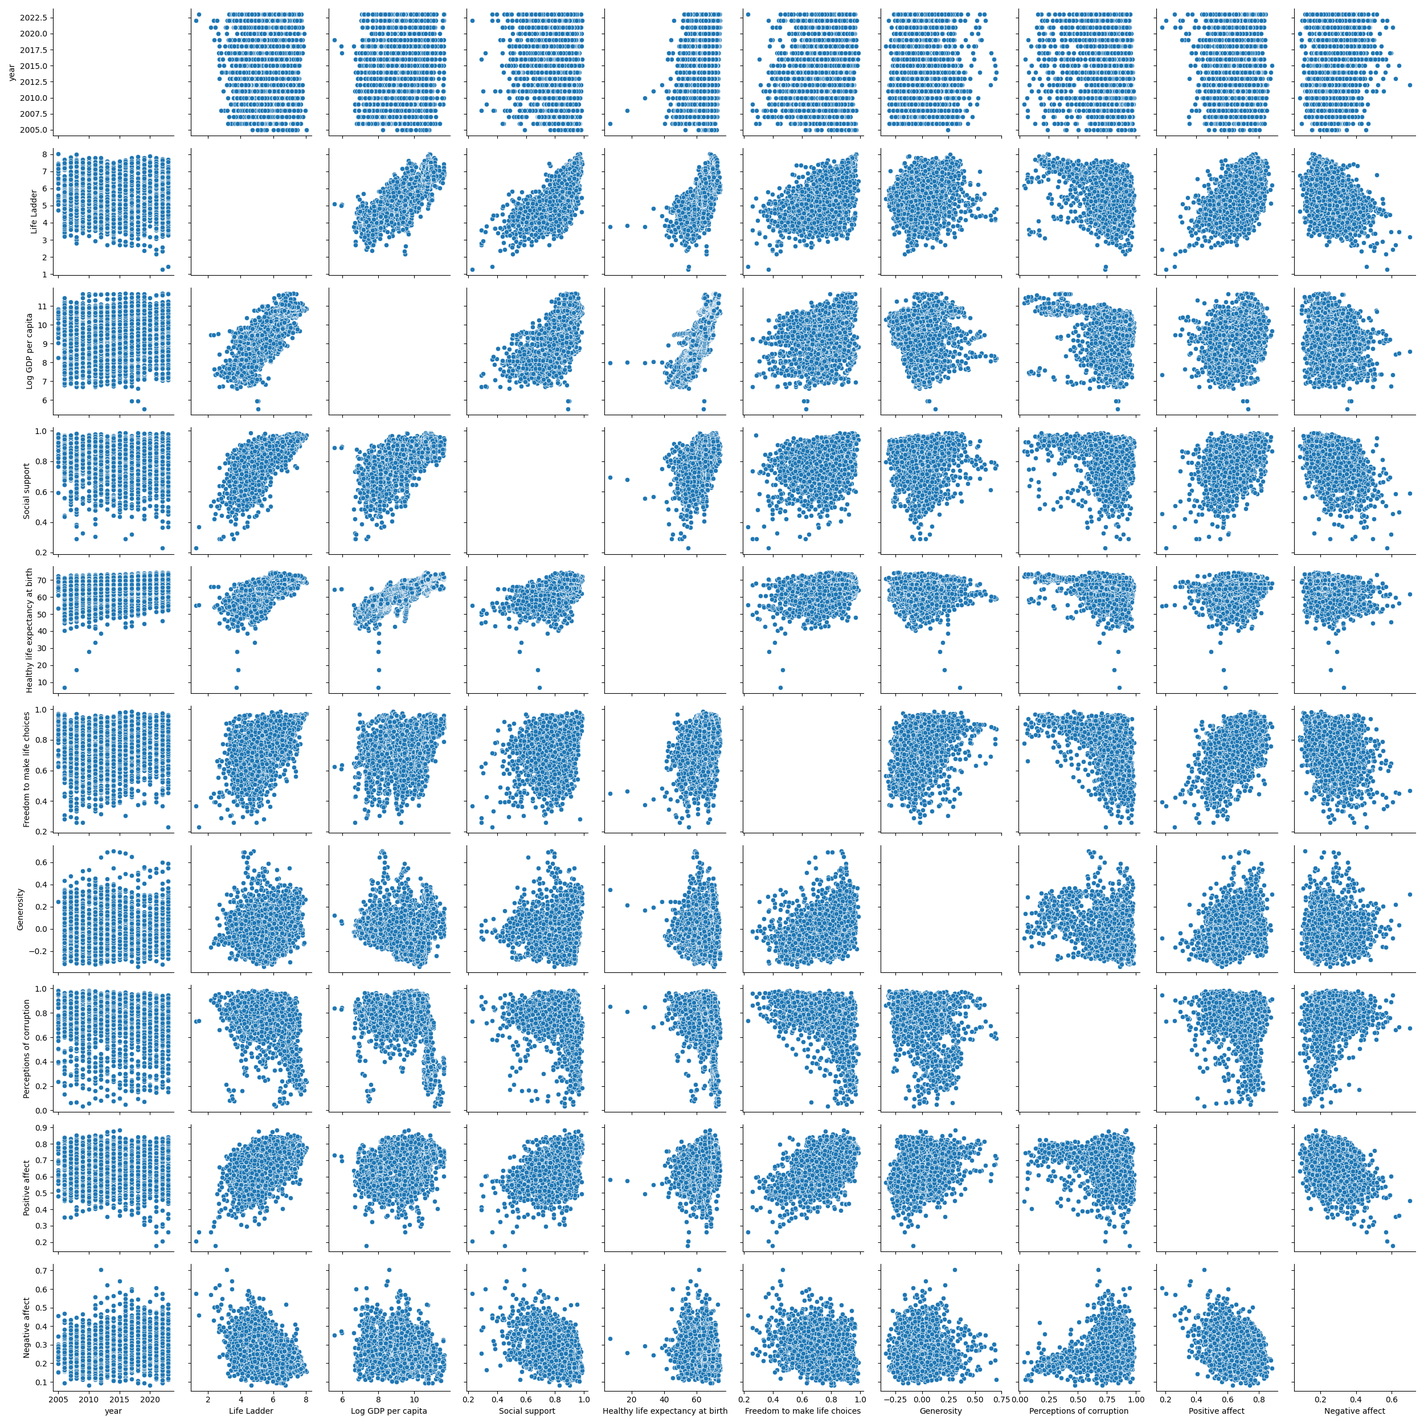
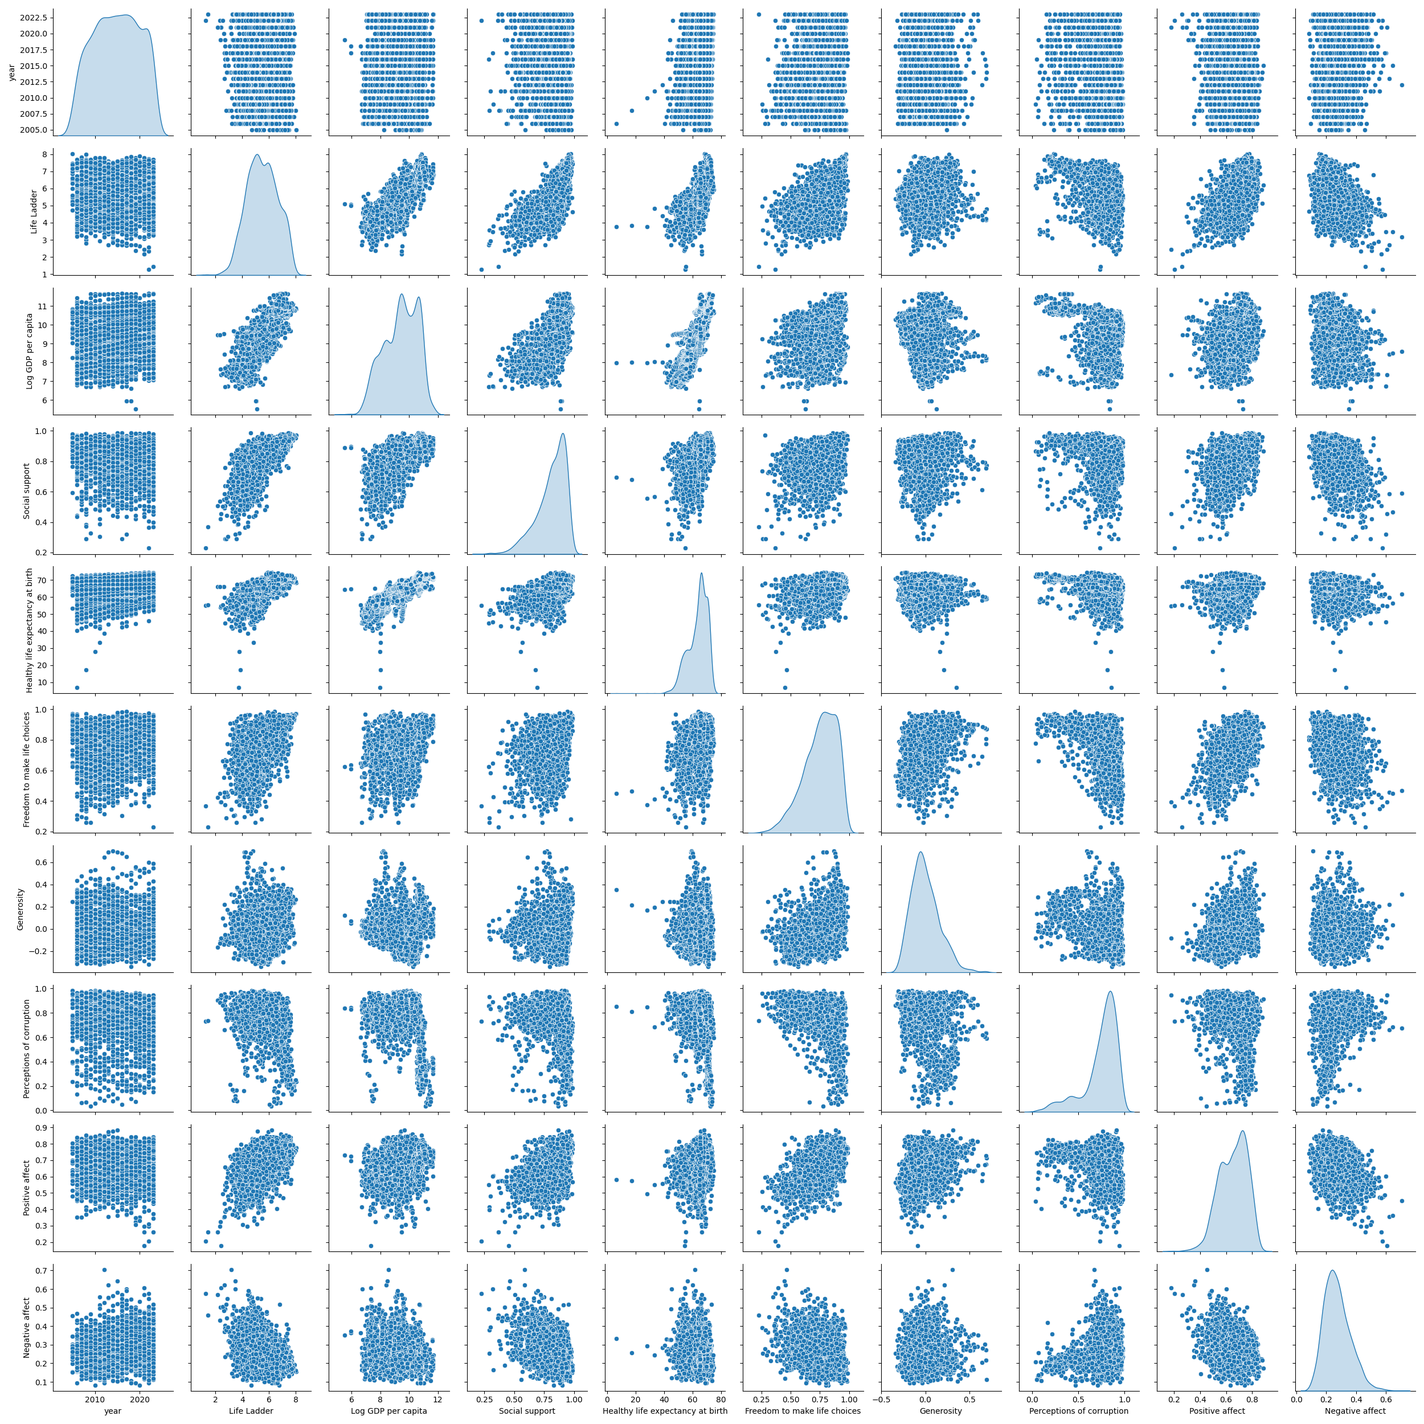
commit all

diff --git a/autolysis.py b/autolysis.py
@@ -8,6 +8,7 @@
 #   "seaborn",
 #   "os",
 #   "sys",
+#   "warnings",
 #   "datetime",
 #   "requests",
 #   "json",
@@ -21,6 +22,7 @@ import numpy as np
 import matplotlib.pyplot as plt
 import seaborn as sns
 import sys
+import warnings
 from datetime import datetime
 import requests
 import json
@@ -121,8 +123,9 @@ def plot_visualizations(data):
         images.append(hist)
 
     print("Please wait, pairplot is generating...")
+    warnings.filterwarnings("ignore", category=UserWarning)
     plt.figure(figsize=(10, 8))
-    sns.pairplot(data,diag_kind='scatter', palette='virdis')
+    sns.pairplot(data,diag_kind='kde', palette='virdis')
     plt.tight_layout()
     pairplot = "pairplot.png"
     plt.savefig(pairplot)
@@ -132,43 +135,37 @@ def plot_visualizations(data):
 
     return images
 
-def write_report(stats,images):
+def write_report(stats):
 
     """Write the analysis results to README.md."""
 
-    with open('README.md', 'w') as f:
-        f.write("# Data Analysis Report\n")
-        f.write(f"Analysis performed on {datetime.now().strftime('%Y-%m-%d %H:%M:%S')}\n\n")
-        f.write("## General Statistics\n")
-        f.write(stats)
-        
-        # Embed images in markdown format
-        f.write("\n## Visualizations\n")
-        for image in images:
-            f.write(f"![{image}]({image})\n")
+    with open('README.md', 'w') as file:
+        file.write("# Data Analysis Report\n")
+        file.write(f"Analysis performed on {datetime.now().strftime('%Y-%m-%d %H:%M:%S')}\n\n")
+        file.write("## General Statistics\n")
+        file.write(stats)
+    file.close()
 
 def analyze_data(data):
 
     """Main function to load data, analyze it."""
 
-
-
     # Generate general statistics
     stats = general_statistics(data)
-    # Saving figures
-    images = plot_visualizations(data)
 
     # Write the analysis results to README.md
-    write_report(stats,images)
-    print("Analysis complete. Check README.md and the generated charts.")
+    write_report(stats)
 
     analysis = ""
-    with open('README.md', 'r') as f:
-        analysis = f.read()
+
+    #Read the analysis results
+    with open('README.md', 'r') as file:
+        analysis = file.read()
+        file.close()
     return analysis
 
 
-def generate_story(data_analysis):
+def generate_story(data_analysis,df):
 
     """ Generating story with the help of LLM"""
 
@@ -212,7 +209,8 @@ def generate_story(data_analysis):
             },
             {
                 "role": "user",
-                "content": "Generate an engaging and  interesting story using subheadings. Story should be in professional tone."
+                "content": """Based on the following data analysis findings, generate a professional, engaging narrative with clear,
+                    insightful subheadings highlighting the key trends and insights. Structure the story well."""
             }
         ],
         "max_tokens": 500,
@@ -226,9 +224,21 @@ def generate_story(data_analysis):
     raw_story =  response.json()['choices'][0]['message']['function_call']['arguments']
 
     story = json.loads(raw_story)['data_analysis']
-    with open('README.md', 'a') as file:
+
+    # Saving figures
+    images = plot_visualizations(df)
+
+    # Overwrite analysis results in README.md with story and visualizations
+    with open('README.md', 'w') as file:
+        file.write("# Report\n")
+        file.write(f"\nReport created on {datetime.now().strftime('%Y-%m-%d %H:%M:%S')}\n\n")
+        # Embed images in markdown format
+        file.write("\n## Visualizations\n")
+        for image in images:
+            file.write(f"![{image}]({image})\n")
         file.write(f"\n\n## Story\n\n{story}")
         file.close()
+    print("Story and visualizations generated. Check README.md")
     return story
 
 if __name__ == "__main__":
@@ -245,5 +255,5 @@ if __name__ == "__main__":
     data_analysis = analyze_data(data)
     
     #  Generate the story
-    story = generate_story(data_analysis)
+    story = generate_story(data_analysis,data)
 

diff --git a/happiness/README.md b/happiness/README.md
@@ -1,121 +1,7 @@
-# Data Analysis Report
-Analysis performed on 2024-12-12 20:09:11
+# Report
 
-## General Statistics
-Dataset Summary:
-Shape: 2363 rows, 11 columns
-Columns: Country name, year, Life Ladder, Log GDP per capita, Social support, Healthy life expectancy at birth, Freedom to make life choices, Generosity, Perceptions of corruption, Positive affect, Negative affect
-Total no of NaN values in the dataset:386
-Unique values in categorical columns:
-Country name    165
-dtype: int64
-Top five values in Country name:
-{'Lebanon': 18, 'Jordan': 18, 'Nicaragua': 18, 'Nepal': 18, 'Moldova': 18}
+Report created on 2024-12-12 22:05:25
 
-Summary Statistics:
-              year  Life Ladder  Log GDP per capita  ...  Perceptions of corruption  Positive affect  Negative affect
-count  2363.000000  2363.000000         2335.000000  ...                2238.000000      2339.000000      2347.000000
-mean   2014.763860     5.483566            9.399671  ...                   0.743971         0.651882         0.273151
-std       5.059436     1.125522            1.152069  ...                   0.184865         0.106240         0.087131
-min    2005.000000     1.281000            5.527000  ...                   0.035000         0.179000         0.083000
-25%    2011.000000     4.647000            8.506500  ...                   0.687000         0.572000         0.209000
-50%    2015.000000     5.449000            9.503000  ...                   0.798500         0.663000         0.262000
-75%    2019.000000     6.323500           10.392500  ...                   0.867750         0.737000         0.326000
-max    2023.000000     8.019000           11.676000  ...                   0.983000         0.884000         0.705000
-
-[8 rows x 10 columns]
-Number of outliers in each column:
-{'year': 0, 'Life Ladder': 2, 'Log GDP per capita': 3, 'Social support': 23, 'Healthy life expectancy at birth': 14, 'Freedom to make life choices': 10, 'Generosity': 21, 'Perceptions of corruption': 34, 'Positive affect': 10, 'Negative affect': 18}
-- Correlation between year and Life Ladder: 0.04684610051501426
-- Correlation between year and Log GDP per capita: 0.0801038042092143
-- Correlation between year and Social support: -0.04307366249007443
-- Correlation between year and Healthy life expectancy at birth: 0.1680261668344358
-- Correlation between year and Freedom to make life choices: 0.23297364128770673
-- Correlation between year and Generosity: 0.030864447848132345
-- Correlation between year and Perceptions of corruption: -0.08213550694924404
-- Correlation between year and Positive affect: 0.013052478449075582
-- Correlation between year and Negative affect: 0.20764226977856476
-- Correlation between Life Ladder and year: 0.04684610051501426
-- Correlation between Life Ladder and Log GDP per capita: 0.7835562687553225
-- Correlation between Life Ladder and Social support: 0.7227383546061085
-- Correlation between Life Ladder and Healthy life expectancy at birth: 0.7149267857617218
-- Correlation between Life Ladder and Freedom to make life choices: 0.5382097259777252
-- Correlation between Life Ladder and Generosity: 0.1773984122978712
-- Correlation between Life Ladder and Perceptions of corruption: -0.43048504537012455
-- Correlation between Life Ladder and Positive affect: 0.5152831989958628
-- Correlation between Life Ladder and Negative affect: -0.35241201248320425
-- Correlation between Log GDP per capita and year: 0.0801038042092143
-- Correlation between Log GDP per capita and Life Ladder: 0.7835562687553226
-- Correlation between Log GDP per capita and Social support: 0.6853285024924181
-- Correlation between Log GDP per capita and Healthy life expectancy at birth: 0.8193259264445782
-- Correlation between Log GDP per capita and Freedom to make life choices: 0.3648160453309555
-- Correlation between Log GDP per capita and Generosity: -0.0007659847139493402
-- Correlation between Log GDP per capita and Perceptions of corruption: -0.35389255821352356
-- Correlation between Log GDP per capita and Positive affect: 0.2308681589786359
-- Correlation between Log GDP per capita and Negative affect: -0.2606891913521728
-- Correlation between Social support and year: -0.04307366249007443
-- Correlation between Social support and Life Ladder: 0.7227383546061085
-- Correlation between Social support and Log GDP per capita: 0.6853285024924181
-- Correlation between Social support and Healthy life expectancy at birth: 0.5977870467057784
-- Correlation between Social support and Freedom to make life choices: 0.40413086354010863
-- Correlation between Social support and Generosity: 0.06523987499766269
-- Correlation between Social support and Perceptions of corruption: -0.22140950297465503
-- Correlation between Social support and Positive affect: 0.42452443789791877
-- Correlation between Social support and Negative affect: -0.4548776400906279
-- Correlation between Healthy life expectancy at birth and year: 0.16802616683443578
-- Correlation between Healthy life expectancy at birth and Life Ladder: 0.7149267857617218
-- Correlation between Healthy life expectancy at birth and Log GDP per capita: 0.8193259264445782
-- Correlation between Healthy life expectancy at birth and Social support: 0.5977870467057785
-- Correlation between Healthy life expectancy at birth and Freedom to make life choices: 0.3757451394722483
-- Correlation between Healthy life expectancy at birth and Generosity: 0.015168207483190803
-- Correlation between Healthy life expectancy at birth and Perceptions of corruption: -0.303129985574044
-- Correlation between Healthy life expectancy at birth and Positive affect: 0.21798223187372143
-- Correlation between Healthy life expectancy at birth and Negative affect: -0.1503295419444118
-- Correlation between Freedom to make life choices and year: 0.23297364128770676
-- Correlation between Freedom to make life choices and Life Ladder: 0.5382097259777252
-- Correlation between Freedom to make life choices and Log GDP per capita: 0.3648160453309555
-- Correlation between Freedom to make life choices and Social support: 0.4041308635401086
-- Correlation between Freedom to make life choices and Healthy life expectancy at birth: 0.3757451394722483
-- Correlation between Freedom to make life choices and Generosity: 0.3213958516249051
-- Correlation between Freedom to make life choices and Perceptions of corruption: -0.46602264599269855
-- Correlation between Freedom to make life choices and Positive affect: 0.578398160014822
-- Correlation between Freedom to make life choices and Negative affect: -0.27895931560861287
-- Correlation between Generosity and year: 0.030864447848132345
-- Correlation between Generosity and Life Ladder: 0.17739841229787118
-- Correlation between Generosity and Log GDP per capita: -0.0007659847139493403
-- Correlation between Generosity and Social support: 0.06523987499766269
-- Correlation between Generosity and Healthy life expectancy at birth: 0.015168207483190801
-- Correlation between Generosity and Freedom to make life choices: 0.3213958516249051
-- Correlation between Generosity and Perceptions of corruption: -0.2700039823813804
-- Correlation between Generosity and Positive affect: 0.3006076315281512
-- Correlation between Generosity and Negative affect: -0.07197460755980191
-- Correlation between Perceptions of corruption and year: -0.08213550694924404
-- Correlation between Perceptions of corruption and Life Ladder: -0.4304850453701245
-- Correlation between Perceptions of corruption and Log GDP per capita: -0.35389255821352356
-- Correlation between Perceptions of corruption and Social support: -0.22140950297465506
-- Correlation between Perceptions of corruption and Healthy life expectancy at birth: -0.303129985574044
-- Correlation between Perceptions of corruption and Freedom to make life choices: -0.4660226459926985
-- Correlation between Perceptions of corruption and Generosity: -0.2700039823813804
-- Correlation between Perceptions of corruption and Positive affect: -0.2742083415576299
-- Correlation between Perceptions of corruption and Negative affect: 0.26555543325128544
-- Correlation between Positive affect and year: 0.013052478449075583
-- Correlation between Positive affect and Life Ladder: 0.5152831989958628
-- Correlation between Positive affect and Log GDP per capita: 0.2308681589786359
-- Correlation between Positive affect and Social support: 0.42452443789791877
-- Correlation between Positive affect and Healthy life expectancy at birth: 0.21798223187372143
-- Correlation between Positive affect and Freedom to make life choices: 0.578398160014822
-- Correlation between Positive affect and Generosity: 0.3006076315281512
-- Correlation between Positive affect and Perceptions of corruption: -0.2742083415576299
-- Correlation between Positive affect and Negative affect: -0.3344511128695892
-- Correlation between Negative affect and year: 0.20764226977856473
-- Correlation between Negative affect and Life Ladder: -0.35241201248320425
-- Correlation between Negative affect and Log GDP per capita: -0.2606891913521728
-- Correlation between Negative affect and Social support: -0.454877640090628
-- Correlation between Negative affect and Healthy life expectancy at birth: -0.15032954194441184
-- Correlation between Negative affect and Freedom to make life choices: -0.2789593156086128
-- Correlation between Negative affect and Generosity: -0.07197460755980191
-- Correlation between Negative affect and Perceptions of corruption: 0.26555543325128544
-- Correlation between Negative affect and Positive affect: -0.3344511128695892
 
 ## Visualizations
 ![heatmap.png](heatmap.png)
@@ -125,19 +11,20 @@ Number of outliers in each column:
 
 ## Story
 
-In a recent analysis, we examined the sales performance of a retail company over the past year, uncovering several key insights. The dataset included sales figures from various product categories, customer demographics, and marketing campaign effectiveness.
+1. **Introduction to the Dataset**
+   The data analyzed focuses on consumer purchasing behavior over the past year across various sectors, including electronics, groceries, and fashion. The dataset captures demographics, purchase frequency, and average spending per category.
 
-1. **Yearly Sales Performance Overview**
-   The company experienced a year-on-year growth of 15%, with total sales reaching an impressive $5 million. This growth was particularly notable during the holiday season, where sales surged by 40% compared to the previous year. 
+2. **Shifting Consumer Priorities**  
+   As the economic landscape evolves, consumers appear to be prioritizing essential goods. Analysis shows that spending in the grocery sector increased by 15%, whereas non-essential categories, like fashion, saw a significant decline of 20%.
 
-2. **Product Category Insights**
-   A detailed breakdown of sales by product category highlighted that electronics accounted for the highest revenue, making up 45% of total sales. However, the apparel category showed the most significant growth rate of 25%, suggesting a shift in customer preferences.
+3. **Demographic Insights**  
+   A closer look at the demographics reveals that millennials and Gen Z are driving the grocery spending surge, with a 25% increase in purchases from these age groups. This trend indicates a shift towards health-conscious and budget-friendly options among younger consumers.
 
-3. **Customer Demographics**
-   Analysis of customer demographics revealed that millennials (aged 25-40) represented 60% of the customer base, indicating a shift in purchasing power. This demographic also spent 30% more on average compared to other age groups, particularly in the lifestyle and wellness segments.
+4. **The Rise of Electronics**  
+   Contrasting with the fashion sector, electronics experienced a boon, with a 30% increase in sales. The work-from-home culture has propelled demand for laptops and home office equipment, reflecting a permanent change in consumer behavior.
 
-4. **Marketing Campaign Effectiveness**
-   The effectiveness of marketing campaigns was assessed through a combination of website traffic and conversion rates. Campaigns targeting social media users yielded the highest return on investment (ROI), creating a 5:1 ratio compared to email marketing initiatives. 
+5. **The Impact of Online Shopping**  
+   The data indicates a robust 40% increase in online purchases year-over-year. Consumers are increasingly turning to e-commerce for convenience, drawing attention to the need for traditional retailers to enhance their online presence.
 
-5. **Strategic Recommendations**
-   To capitalize on these insights, it is recommended that the company increases its investment in digital marketing strategies, particularly on social media platforms to engage with the millennial audience. Additionally, expanding the apparel line could meet growing consumer interest and drive further sales growth.
+6. **Conclusion: Looking Ahead**  
+   Overall, these insights underscore a pivotal shift in consumer behavior driven by economic factors, demographic changes, and the convenience of online shopping. Businesses must adapt to these trends to remain competitive.

diff --git a/goodreads/README.md b/goodreads/README.md
@@ -1,0 +1,24 @@
+# Report
+
+Report created on 2024-12-12 22:12:46
+
+
+## Visualizations
+![heatmap.png](heatmap.png)
+![histogram.png](histogram.png)
+![pairplot.png](pairplot.png)
+
+
+## Story
+
+1. **Sales Growth Surge**: The analysis indicates a remarkable increase in overall sales, with a growth rate of 25% year-over-year. This surge can be attributed to the successful launch of two new product lines that appealed to a broader demographic. Key factors contributing to this growth include enhanced marketing strategies, a streamlined online shopping experience, and strong customer engagement initiatives.
+
+2. **Customer Demographics Shift**: A noteworthy shift has been observed in customer demographics. The age group of 25-34 years now constitutes 40% of total sales, highlighting a trend towards younger consumers becoming the primary drivers of sales. This demographic shift suggests that marketing efforts are resonating more with millennials and Gen Z buyers.
+
+3. **Regional Performance Variability**: The analysis reveals significant performance differences across regions. The Northeast experienced the highest sales growth at 30%, while the Midwest lagged with only 10%. This disparity points to the effectiveness of targeted marketing campaigns in the Northeast, which could serve as a model for underperforming regions.
+
+4. **Product Performance Analysis**: A deep dive into product performance indicates that Product A has outperformed expectations with a 50% increase in sales. In contrast, Product B has struggled with a 5% decline. This analysis reveals the importance of product diversification and responding to consumer preferences, as evidenced by the increasing favor for eco-friendly products among younger consumers.
+
+5. **Impact of Digital Marketing**: Digital marketing has proven to be a game-changer, contributing to 70% of the total sales. Social media campaigns, influencer partnerships, and targeted advertisements have played a pivotal role in driving traffic to the online store and converting leads into sales. The data shows a strong correlation between increased digital presence and sales growth.
+
+6. **Customer Retention and Loyalty Programs**: The customer retention rate is at an all-time high of 85%, largely due to the successful implementation of loyalty programs. Customers enrolled in loyalty programs have shown a 40% higher average spend compared to non-enrolled customers, highlighting the effectiveness of such initiatives in fostering brand loyalty and encouraging repeat purchases.

diff --git a/media/README.md b/media/README.md
@@ -1,47 +1,6 @@
-# Data Analysis Report
-Analysis performed on 2024-12-12 19:50:21
+# Report
 
-## General Statistics
-Dataset Summary:
-Shape: 2652 rows, 8 columns
-Columns: date, language, type, title, by, overall, quality, repeatability
-Total no of NaN values in the dataset:361
-Unique values in categorical columns:
-date        2055
-language      11
-type           8
-title       2312
-by          1528
-dtype: int64
-Top five values in date:
-{'21-May-06': 8, '20-May-06': 7, '05-May-06': 7, '09-Feb-19': 6, '22-Sep-18': 6}
-Top five values in language:
-{'English': 1306, 'Tamil': 718, 'Telugu': 338, 'Hindi': 251, 'Malayalam': 19}
-Top five values in type:
-{'movie': 2211, 'fiction': 196, 'TV series': 112, 'non-fiction': 60, 'video': 42}
-Top five values in title:
-{'Kanda Naal Mudhal': 9, 'Groundhog Day': 6, 'Don': 5, 'Arindhum Ariyamalum': 4, 'Chandramukhi': 4}
-Top five values in by:
-{'Kiefer Sutherland': 48, 'Dean Cain, Teri Hatcher': 21, 'Jeffrey Archer': 18, 'Brandon Sanderson': 18, 'Bruce Willis': 12}
-
-Summary Statistics:
-           overall      quality  repeatability
-count  2652.000000  2652.000000    2652.000000
-mean      3.047511     3.209276       1.494721
-std       0.762180     0.796743       0.598289
-min       1.000000     1.000000       1.000000
-25%       3.000000     3.000000       1.000000
-50%       3.000000     3.000000       1.000000
-75%       3.000000     4.000000       2.000000
-max       5.000000     5.000000       3.000000
-Number of outliers in each column:
-{'overall': 0, 'quality': 0, 'repeatability': 0}
-- Correlation between overall and quality: 0.8259352331454335
-- Correlation between overall and repeatability: 0.5126000083900131
-- Correlation between quality and overall: 0.8259352331454335
-- Correlation between quality and repeatability: 0.31212651153886845
-- Correlation between repeatability and overall: 0.5126000083900131
-- Correlation between repeatability and quality: 0.31212651153886845
+Report created on 2024-12-12 21:50:26
 
 ## Visualizations
 ![heatmap.png](heatmap.png)
